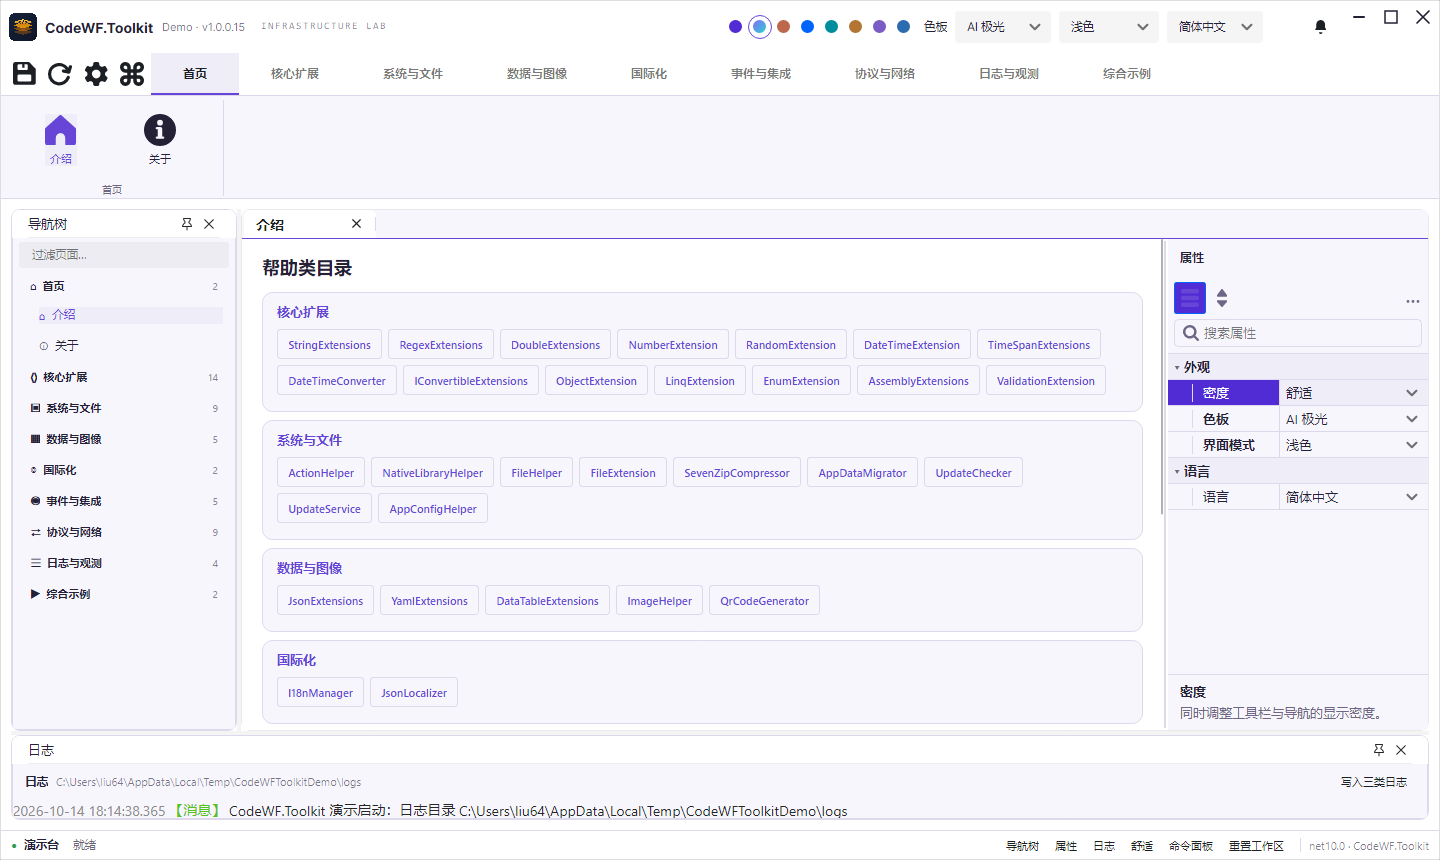
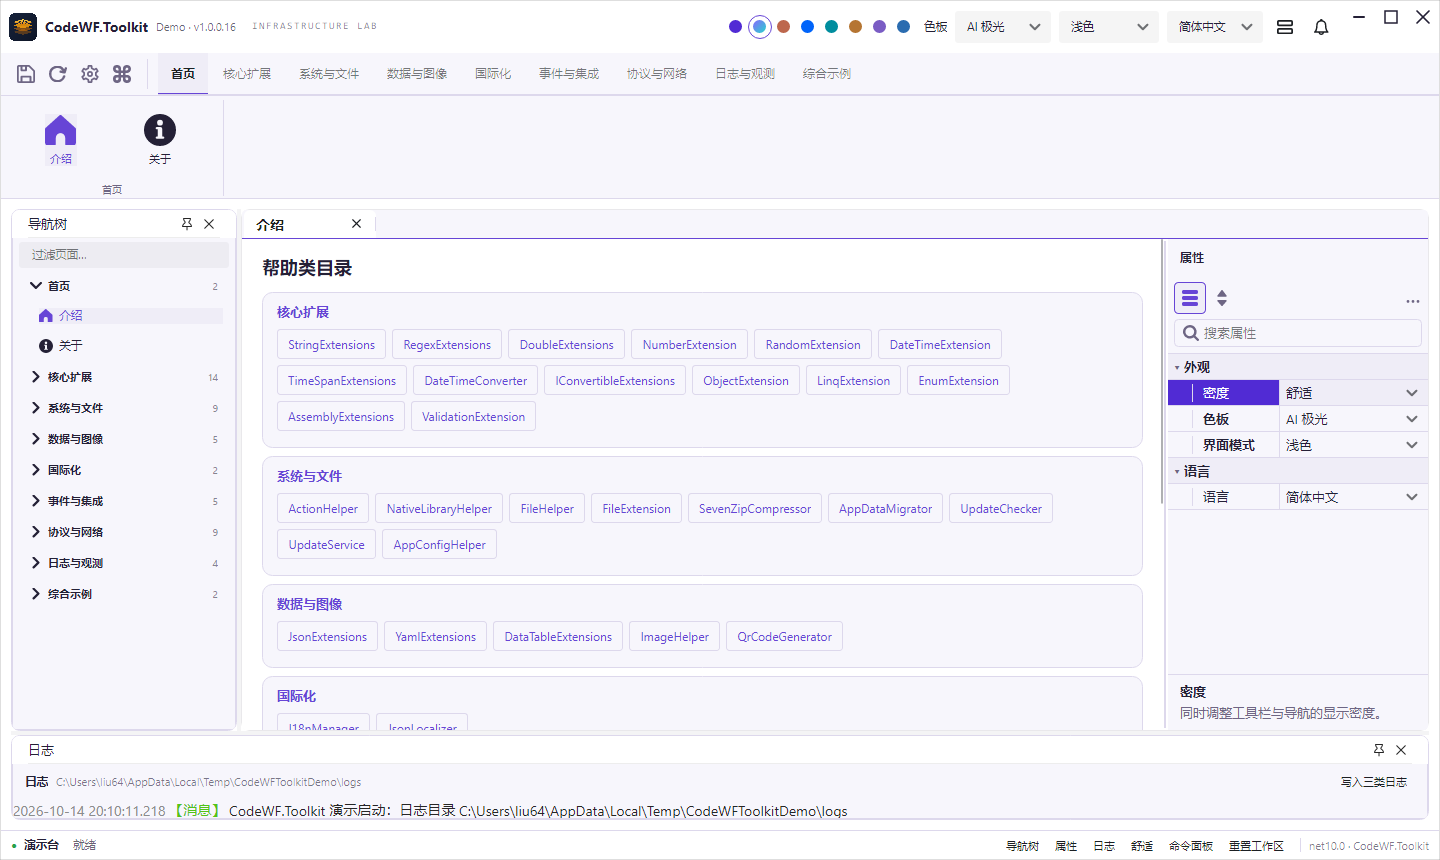
docs(release): 更新 1.0.0.16 原生截图与桌面验收记录

diff --git a/docs/NativeDemo.md b/docs/NativeDemo.md
@@ -9,7 +9,7 @@ Demo 使用 Ribbon + Dock，以单个帮助类或公开 API 为导航单位。9 
 - 首屏展示真实帮助类、输入和结果，源码按需展开。介绍页提供全局设置；其他页面仅显示自身参数，无参数时保持空面板。
 - 属性面板使用 Semi 分类和排序图标；搜索独占下一行。文本、数值和下拉编辑器铺满单元格、默认无边框，下拉内容左对齐；复选和单选保持常规外观。
 - 表格具有横竖分隔线，可拖动名称和值之间的分隔条调整列宽，可拖动行底边调整行高。
-- Ribbon 组仅显示标题；命令图标使用 Semi 矢量资源，统一 32×32。快捷图标为 24×24，按钮热区 34×34。密集组双行排列，长 API 名不换行，窄窗口横向滚动。
+- Ribbon 组仅显示标题；命令图标使用 Semi 矢量资源，统一 32×32。快捷图标为 18×18，按钮热区 30×30。密集组双行排列，长 API 名不换行，窄窗口横向滚动。
 
 ## 主题与国际化
 
@@ -42,7 +42,7 @@ npm test --prefix design/tests
 
 ## Windows NativeAOT
 
-本轮版本 `1.0.0.15`，环境为 Windows x64 / .NET SDK 10.0.303。`global.json` 固定稳定版 .NET 10。
+本轮版本 `1.0.0.16`，环境为 Windows x64 / .NET SDK 10.0.303。`global.json` 固定稳定版 .NET 10。
 
 ```powershell
 dotnet test CodeWF.Toolkit.slnx -c Release
@@ -56,7 +56,7 @@ Start-Process $demo -ArgumentList '--capture ./artifacts/studio-qa' -Wait -PassT
 
 ## 独立构建与真实 API
 
-Demo 通过正式版本 NuGet 引用 `CodeWF.Avalonia.Controls/TreeDataGrid/Dock/Lang/Log 12.1.4.13`，没有跨仓库工程引用。12 个生产库保持无 UI 依赖，Demo 通过同仓 ProjectReference 展示当前 Toolkit 实现。
+Demo 通过正式版本 NuGet 引用 `CodeWF.Avalonia.Controls/TreeDataGrid/Dock/Lang/Log 12.1.4.14`，没有跨仓库工程引用。12 个生产库保持无 UI 依赖，Demo 通过同仓 ProjectReference 展示当前 Toolkit 实现。
 
 本机联调可将 nupkg 打到 `temp_nugets` 环境变量指定目录，使用仓外 NuGet 配置还原；临时源、缓存和绝对路径不提交。CI 仍使用 nuget.org。
 
@@ -69,3 +69,7 @@ Windows x64 NativeAOT 冒烟与截图均退出 0，52 页 × 16 配色组合共 
 字体度量、Dock 页签与窗口行为由 Semi/Dock 和操作系统决定，原型不承诺逐像素一致。第三方 Prism 默认对话框、旧运行时 XAML 加载器及部分 Markdown/反射路径仍有 AOT/裁剪分析警告；本轮只验证 Demo 实际调用路径。
 
 本机未运行 Linux/macOS UI，未完成跨屏、跨网段、断网重连和长时间负载验收；页面渲染成功不等于所有公开 API 及异常路径均已验证。
+
+快捷区使用 Semi 线性图标、2px 间距和独立分隔留白；鼠标悬停、按下及键盘焦点各有反馈。Ribbon 分类复用 Semi LineTabStrip，单层 13px 水平内边距。标题栏密度与通知入口复用 Semi 图标；导航叶子与 Ribbon 使用同一目录图形。应用默认字体覆盖 Dock 浮动窗和弹出层，代码区域仍使用等宽字体。
+
+本次视觉校准已执行仓库发布脚本，Windows x64 NativeAOT 冒烟与截图退出 0。截图检查包括 18×18 图标、30×30 热区、32×32 主命令，以及中英文、1440×860 与 1120×640 窗口；README 中的 PNG/GIF 已替换为本次 AOT 程序输出。实际 Windows 桌面复核了快捷保存的鼠标反馈、键盘焦点边框及 Ribbon 布局；浅色展开箭头已修正前景并重新发布验证。持续按压瞬间的外观未单独留图，多 DPI 和跨屏交互仍未验收。

diff --git a/UpdateLog.md b/UpdateLog.md
@@ -1,5 +1,13 @@
 # 更新日志
 
+## 1.0.0.16 (2026-10-14)
+
+- 校准 Demo 快捷区的视觉重量：18 像素图标与 30 像素热区分别控制，增加分类分隔留白和悬停、按下、键盘焦点反馈。
+- Ribbon 分类复用 Semi 线形页签，消除模板与内容重复内边距；导航使用目录矢量图标，标题栏密度和通知改用 Semi 图形。
+- 应用默认字体统一覆盖 Dock 浮动窗与弹出层，目录入口按原型使用 12 像素常规字重，原型和视觉规格同步。
+- 属性面板排序按钮使用面板主题令牌，选中状态采用浅底与描边；Toolkit Demo 通过 NuGet 消费相同改进。
+- 验证：Windows x64 NativeAOT 脚本发布、原生冒烟和截图通过；图标与热区运行尺寸、中英文及窄窗口检查通过，README 的 PNG/GIF 同步更新；实机复核快捷保存的鼠标反馈与键盘焦点，修正浅色导航展开箭头的对比度。
+
 ## 1.0.0.15 (2026-10-14)
 
 - 通过 NuGet 引用 CodeWF.Avalonia 12.1.4.13，复用共享 StudioThemeController；继续保持独立克隆构建，无跨仓工程引用。
